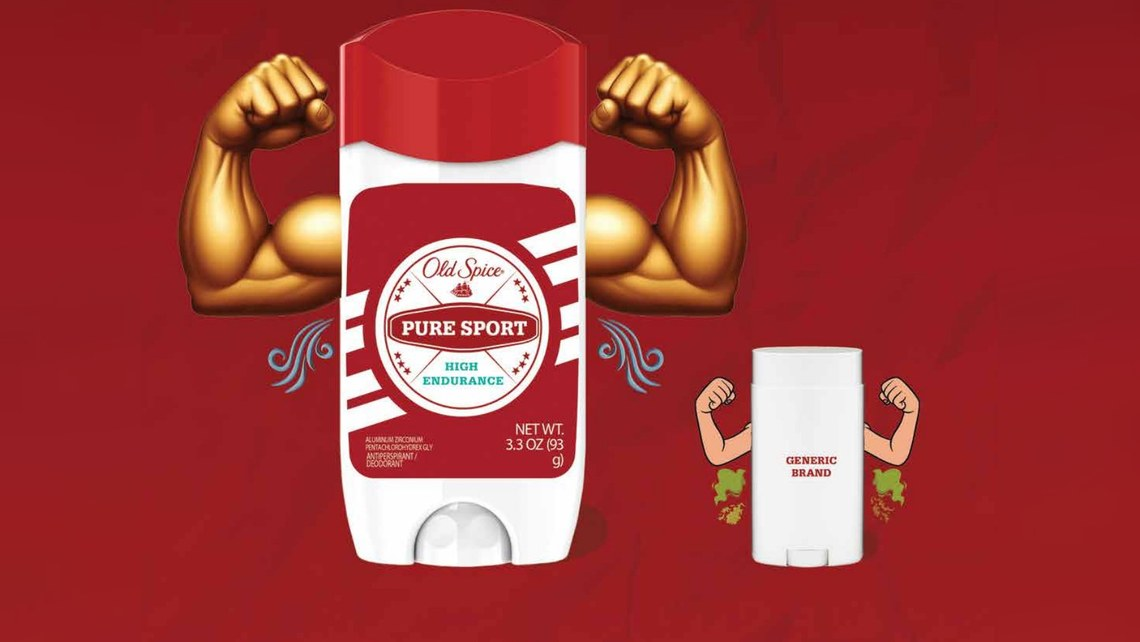
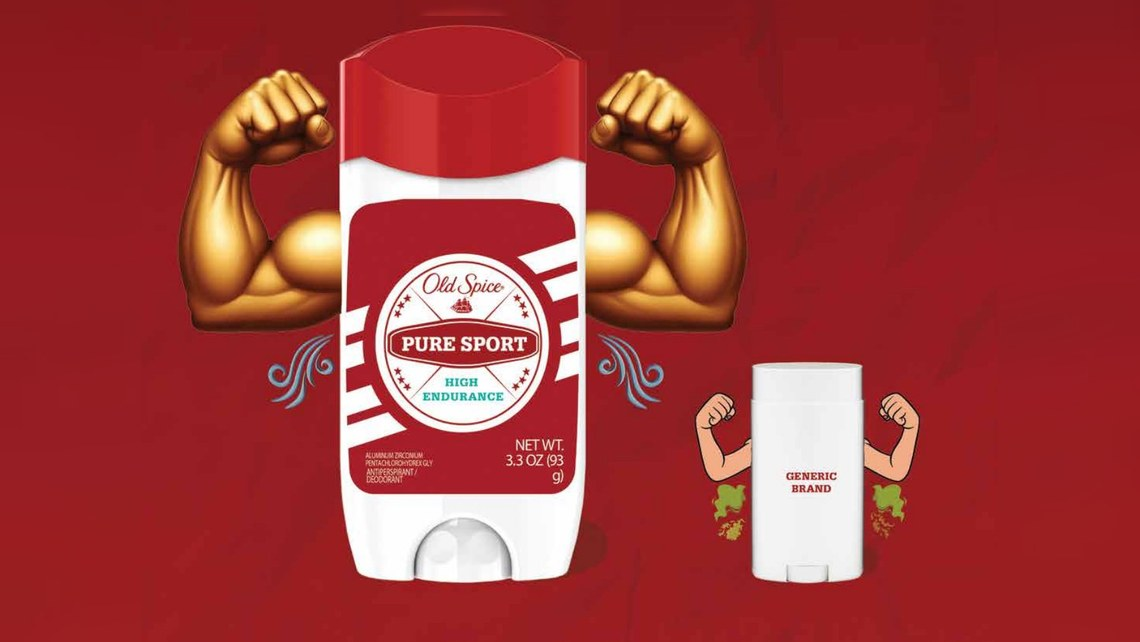
Old Spice Ad Campaign tile: center the stick vertically
Claude-Session: https://claude.ai/code/session_01ReK3oetAUspUe8FcLJQjyp

Changed region(s): [[0.1535, 0.0, 0.8289, 0.9346], [0.6447, 0.8723, 0.7675, 0.9346], [0.3377, 0.0935, 0.3991, 0.1558]]

diff --git a/index.html b/index.html
@@ -47,7 +47,7 @@
       <li><a class="work-card" href="malama-maui.html"><img src="assets/images/thumbs/malama-maui.jpg" alt="He wa’a, Ko’u Kūpuna (The Canoe, My Ancestor), Mālama Maui: The Land We Hold"><span class="work-card__label">Mālama Maui: The Land We Hold</span></a></li>
       <li><a class="work-card" href="pending.html"><img src="assets/images/thumbs/pending.jpg" alt="Pending"><span class="work-card__label">Pending</span></a></li>
       <li><a class="work-card" href="old-spice.html"><img src="assets/images/thumbs/old-spice.jpg" alt="Old Spice Pure Sport"><span class="work-card__label">Old Spice Logo Rebrand</span></a></li>
-      <li><a class="work-card" href="old-spice-ad.html"><img src="assets/images/thumbs/old-spice-ad.jpg?v=2" alt="Old Spice Scent Mogged ad"><span class="work-card__label">Old Spice Ad Campaign</span></a></li>
+      <li><a class="work-card" href="old-spice-ad.html"><img src="assets/images/thumbs/old-spice-ad.jpg?v=3" alt="Old Spice Scent Mogged ad"><span class="work-card__label">Old Spice Ad Campaign</span></a></li>
       <li><a class="work-card work-card--wordmark" href="daily-tar-heel.html"><img src="assets/images/thumbs/daily-tar-heel.png" alt="The Daily Tar Heel"><span class="work-card__label">The Daily Tar Heel</span></a></li>
     </ul>
   </main>
